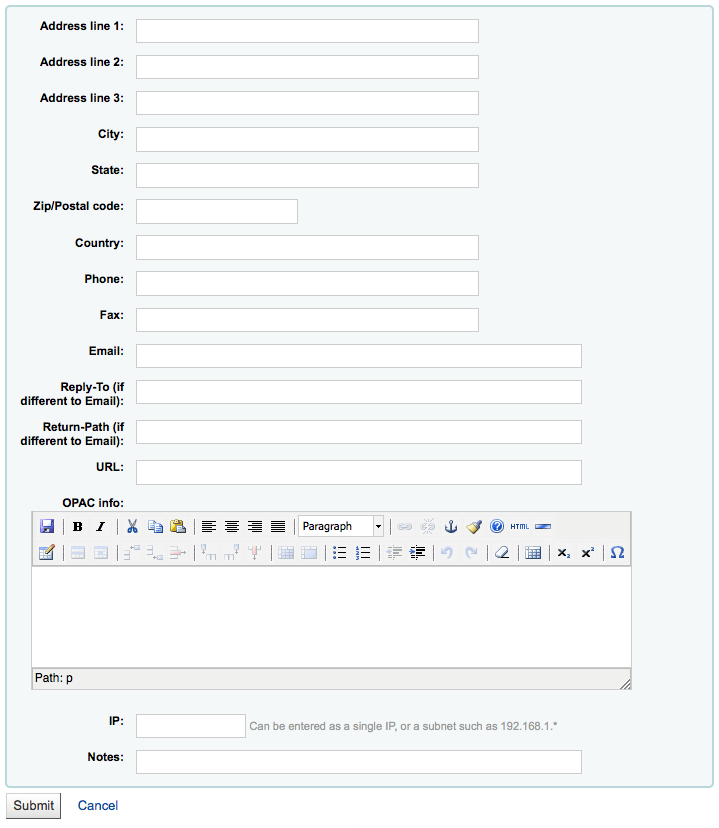
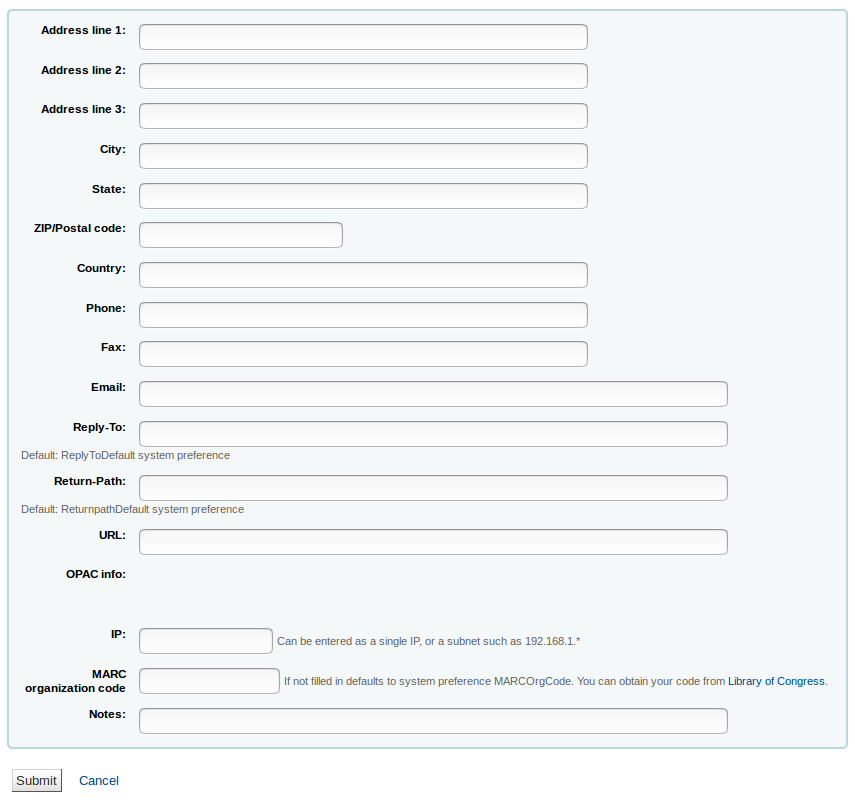
Edit Administration, sections Libraries, Library groups, and Item types

Changed region(s): [[0.0, 0.0, 1.0, 1.0], [0.0, 0.375, 0.8873, 0.7188], [0.8261, 0.5938, 0.8567, 0.625]]

diff --git a/source/02_administration.rst b/source/02_administration.rst
@@ -13659,24 +13659,21 @@ Basic Parameters
 
     Configure all 'parameters' in the order they appear.
 
-.. _libraries-&-groups-label:
+.. _libraries-label:
 
-Libraries & Groups
+Libraries
 ~~~~~~~~~~~~~~~~~~~~~~~~~~~~~~~~~~~~
 
 When setting up your Koha system you will want to add information for
 every library that will be sharing your system. This data is used in
 several areas of Koha.
 
--  *Get there:* More > Administration > Basic Parameters > Libraries and
-   Groups
+-  *Get there:* More > Administration > Basic Parameters > Libraries
 
-When visiting this page you are presented with a list of the libraries
-and groups that have already been added to the system.
+When visiting this page you are presented with a list of the libraries that have already been added to the system.
 
 |image122|
 
-|image123|
 
 .. _adding-a-library-label:
 
@@ -13699,13 +13696,10 @@ To add a new library:
       displays to the public and should be a name that makes sense to
       your patrons.
 
-   -  If you have :ref:`groups <adding-a-group-label>` set up you can choose
-      what group this library belongs to after entering in the code and
-      name
-
 -  Next you can enter basic contact info about the branch
 
    |image125|
+   .. screenshot is missing the OPAC info box
 
    -  The address and contact fields can be used to make notices custom
       for each library
@@ -13755,6 +13749,8 @@ To add a new library:
              An IP address is required if you have enabled
              :ref:`AutoLocation`
 
+   -  If this library has a specific `MARC organization code <http://www.loc.gov/marc/organizations/orgshome.html>`_, you can enter it   here. If left blank, the code entered in the :ref:`MARCOrgCode` preference will be used for this library.
+
    -  Finally, if you have any notes you can put them here. These will
       not show in the OPAC
 
@@ -13779,55 +13775,64 @@ link to edit/alter details associated with the library in question.
 
     You will be unable to edit the 'Library code'
 
+Library groups
+~~~~~~~~~~~~~~~~~~~~~~~~~~~~~~~~~~~~
+
+Library groups are used in searches to limit the search to a group of libraries (for example in a neigbourhood).
+
+-  *Get there:* More > Administration > Basic Parameters > Library groups
+
+When visiting this page you are presented with a list of the groups that have already been added to the system.
+
+|image123|
+
 .. _adding-a-group-label:
 
 Adding a group
 ^^^^^^^^^^^^^^^^^^^^^^^^^^^^^^^^^^^^
 
-To add a Search Domain or Library Property Group click the 'New Group'
-button at the top of the screen
+Click the 'Add Group' button at the top of the screen
 
 |image129|
 
-Give the group a 'Category type; of 'searchdomain' and if you would like
-the group to show up in the library pull down at the top of the OPAC
-(with
-:ref:`OpacAddMastheadLibraryPulldown` set
-to 'Add') and on the advanced search page you can check the 'Show in
-search pulldown' box.
+- Give the group a title and a description. Only the title is mandatory as it will show up in the staff client and in the OPAC. The description is only used in this page to give an idea of what the group is used for.
 
-Of the fields on the group form, 'Category code', 'Name', and 'Category
-type' are the only required fields
+- You can limit staff from seeing other groups' patrons by checking the box next to the 'Limit patron data access by group' option.
 
-.. _search-domain-groups-label:
+- If you would like the group to show up in the library pulldown menu at the top of the OPAC (with :ref:`OpacAddMastheadLibraryPulldown` set to 'Add') and on the advanced search page you can check the 'Use for OPAC search groups' box.
 
-Search Domain Groups
-''''''''''''''''''''''''''''''''''''''''''''''
-
-Search Domain Groups allow you to search a group of libraries at the
-same time instead of searching just one library or all libraries.
-
-|image130|
-
-To see Search Domain Groups in action visit the staff client advanced
-search page in your Koha system:
+- If you want the group to appear in the library pulldown in the staff client advanced search, check the 'Use for staff search groups' box.
 
 |image131|
 
-.. _library-property-groups-label:
+.. _adding-a-library-to-a-group-label:
 
-Library Property Groups
-''''''''''''''''''''''''''''''''''''''''''''''''
+Adding a library to a group
+^^^^^^^^^^^^^^^^^^^^^^^^^^^^^^^^^^^^
 
-You can assign specific categories to your libraries by adding groups
-for them
-
-|image132|
-
-Properties are then applied to libraries via the add or edit library
-form
+Click on the 'Add library' button next to the group to add a library to this group. You will be presented with a list of the libraries that are not already in the group.
 
 |image133|
+
+.. _adding-a-sub-group-label:
+
+Adding a sub-group
+^^^^^^^^^^^^^^^^^^^^^^^^^^^^^^^^^^^^
+
+If your system is very large, you can create sub-groups. Click on the 'Actions' button next to the group and select the 'Add a sub-group' option. Fill in the title and the description (optional) of the sub-group. The features will be inherited from the parent group.
+
+|image1323|
+
+.. _deleting-a-group-label:
+
+Deleting a group
+^^^^^^^^^^^^^^^^^^^^^^^^^^^^^^^^^^^^
+
+To delete a group, click on the 'Actions' button next to the group and select the 'Delete' option.
+
+|image1324|
+
+|image1325|
 
 .. _item-types-label:
 
@@ -13854,7 +13859,7 @@ top of the Item Types page.
 
 |image135|
 
--  In the 'Item Type' field, enter a short code for your item type
+-  In the 'Item Type' field, enter a short code for your item type (maximum of 10 characters)
 
 -  The description is the plain text definition of the item type (for
    those with multiple languages installed you can translate the item
@@ -13891,14 +13896,28 @@ top of the Item Types page.
       be checked out to patrons
 
 -  For items that you charge a rental fee for, enter the total fee you
-   charge in the 'Rental charge' field
+   charge in the 'Rental charge' field. This will charge the patron on checkout.
 
    -  **Important**
 
           Do not enter symbols in this field, only numbers and decimal
           points (ex. $5.00 should be entered as 5 or 5.00)
 
-   -  This will charge the patron on checkout
+-  You can add a default replacement cost for this type of item. If left blank, the replacement price of the item itelf will be cherged to the user when the item is lost.
+
+    -  **Important**
+          Do not enter symbols in this field, only numbers and decimal
+          points (ex. $5.00 should be entered as 5 or 5.00)
+
+
+- You can also add a processing fee that will be added to the replacement cost.
+
+   -  **Important**
+
+          Do not enter symbols in this field, only numbers and decimal
+          points (ex. $5.00 should be entered as 5 or 5.00)
+
+
 
 -  If you would like a message or alert to appear when items of this
    type are checked in you can enter that in the 'Checkin message' box
@@ -13949,7 +13968,7 @@ click the 'Edit' link.
 Deleting Item Types
 ^^^^^^^^^^^^^^^^^^^^^^^^^^^^^^^^^^^^^^^^^
 
-Each item has a Delete button beside it. To delete an item, simply click
+Each item has a Delete button beside it. To delete an item type, simply click
 the 'Delete' link.
 
     **Important**

diff --git a/source/images.rst b/source/images.rst
@@ -1320,3 +1320,6 @@
 .. |image1320| image:: images/appendix-oclc/oclcexportbatch.png
 .. |image1321| image:: images/appendix-oclc/oclcprocessbatch.png
 .. |image1322| image:: images/opac/allowcheckoutnotes.png
+.. |image1323| image:: images/admin/basicparams/addsubgroup.png
+.. |image1324| image:: images/admin/basicparams/deletegroup.png
+.. |image1325| image:: images/admin/basicparams/deletegroupconfirm.png
